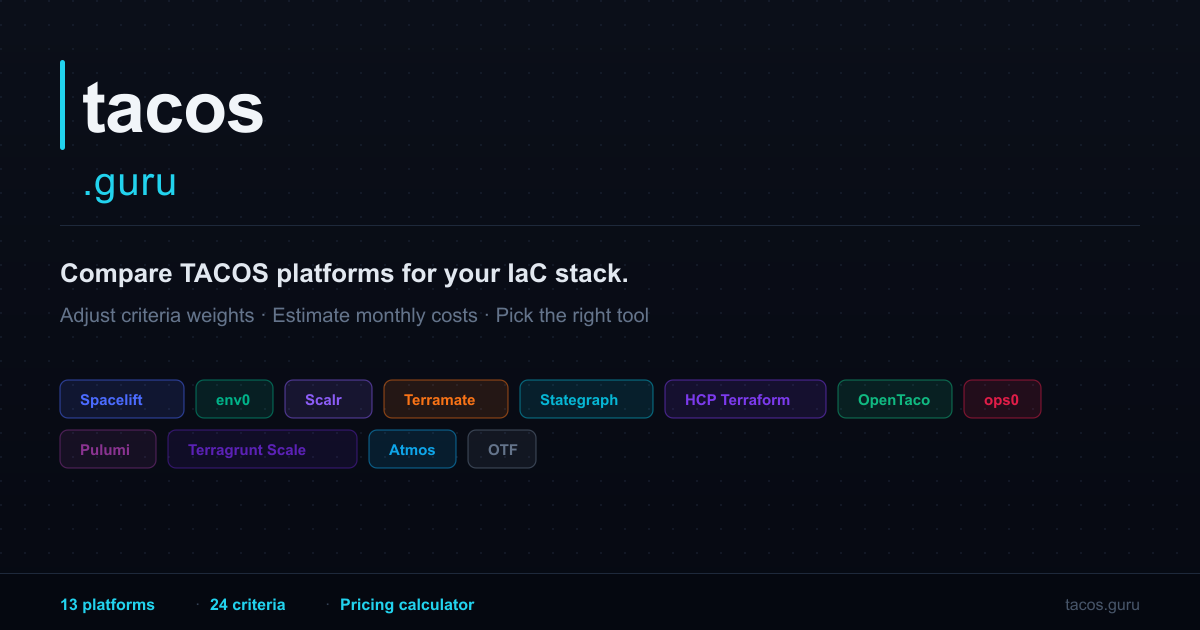
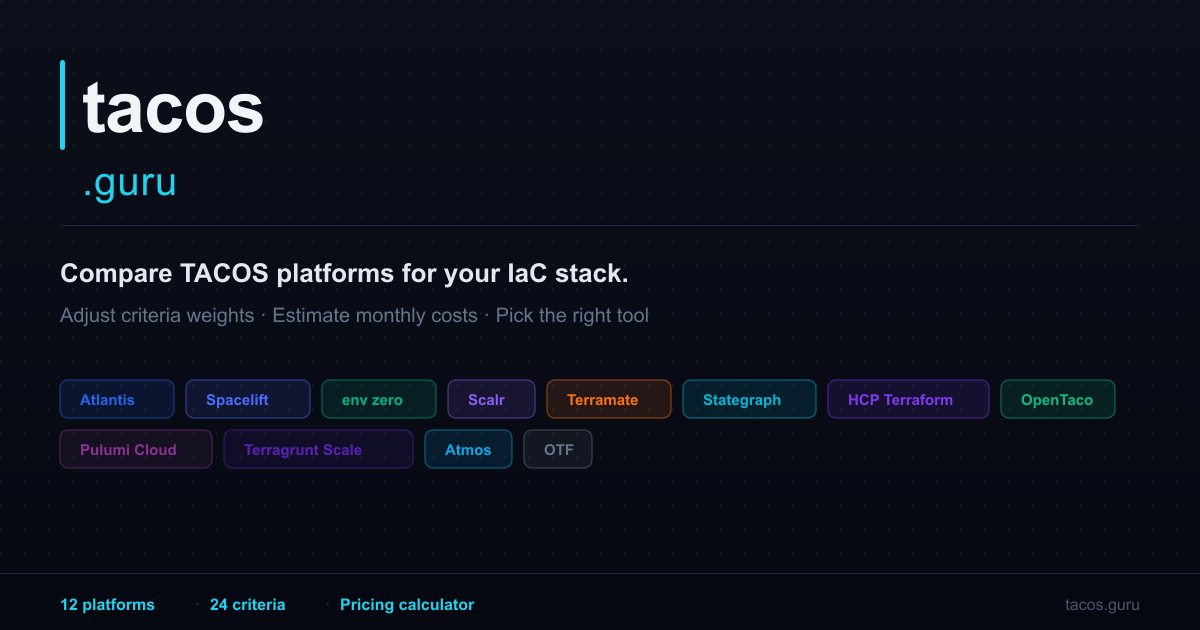
Remove ops0: not a TACOS; list it under 'Also considered'
It is a cloud-security/governance SaaS with a thin Terraform run layer and no
self-hosted runners. The OG image and meta keywords are refreshed (Atlantis
added, ops0 removed).

Claude-Session: https://claude.ai/code/session_01KZSkE1HDDguSimihxKLHY3

Changed region(s): [[0.0617, 0.6032, 0.925, 0.754]]

diff --git a/index.html b/index.html
@@ -6,7 +6,7 @@
 
     <title>tacos.guru — IaC Platform Evaluator</title>
     <meta name="description" content="Compare TACOS platforms across 24 weighted criteria and hard gates. Adjust weights for your use case, estimate monthly costs, and find the right Terraform automation tool." />
-    <meta name="keywords" content="TACOS, Terraform, OpenTofu, Spacelift, env0, Scalr, Stategraph, Terrateam, Terramate, HCP Terraform, OpenTaco, Digger, ops0, Pulumi, Terragrunt, Atmos, OTF, IaC, platform comparison, pricing" />
+    <meta name="keywords" content="TACOS, Terraform, OpenTofu, Atlantis, Spacelift, env0, Scalr, Stategraph, Terrateam, Terramate, HCP Terraform, OpenTaco, Digger, Pulumi, Terragrunt, Atmos, OTF, IaC, platform comparison, pricing" />
     <link rel="canonical" href="https://tacos.guru" />
 
     <!-- Favicon -->

diff --git a/README.md b/README.md
@@ -1,6 +1,6 @@
 # tacos.guru
 
-An interactive evaluation tool for comparing TACOS (Terraform Automation & Collaboration Software) platforms. Compare Atlantis, Spacelift, env0, Scalr, Terramate, Stategraph (formerly Terrateam), HCP Terraform, OpenTaco (formerly Digger), ops0, Pulumi Cloud, Terragrunt Scale, Atmos, and OTF across 24 weighted criteria — plus 4 hard gates that can disqualify a platform outright and 1 advisory gate — and estimate monthly costs based on your team size, resources, run volume, and stack count.
+An interactive evaluation tool for comparing TACOS (Terraform Automation & Collaboration Software) platforms. Compare Atlantis, Spacelift, env0, Scalr, Terramate, Stategraph (formerly Terrateam), HCP Terraform, OpenTaco (formerly Digger), Pulumi Cloud, Terragrunt Scale, Atmos, and OTF across 24 weighted criteria — plus 4 hard gates that can disqualify a platform outright and 1 advisory gate — and estimate monthly costs based on your team size, resources, run volume, and stack count.
 
 **Live site:** [tacos.guru](https://tacos.guru)
 
@@ -40,7 +40,7 @@ It contains:
 - **`criteria`** — 24 evaluation criteria with default weights (1–5) and categories (Critical / High / Medium / Low / Nice-to-have). Two criteria carry `variants` (Collaboration integration: Slack / MS Teams; VCS integration: GitHub / GitLab / Bitbucket / Azure DevOps) with a `defaultVariant`.
 - **`gates`** — the 5 gates (G1–G4 hard, G5 advisory) shown on every platform, each with a pass/fail result, evidence text, and a source link.
 - **`excluded`** — platforms considered but excluded before scoring (e.g. Terrakube — requires Kubernetes), shown as a subtle note below the platform list.
-- **`platforms`** — 13 platforms, each with scores (0–3) per criterion, per-variant scores for the two variant criteria, gate results, a `disqualified` flag, rationale text, and metadata.
+- **`platforms`** — 12 platforms, each with scores (0–3) per criterion, per-variant scores for the two variant criteria, gate results, a `disqualified` flag, rationale text, and metadata.
 - **`pricing`** — tier definitions for each platform including base prices, per-unit costs (including per-stack), feature gates, quote-only/auto-select flags, a source link, and a `pricingScore` mapping (cost bands → 0–3) used to derive the "Pricing suitability" criterion live from the calculator.
 
 Scores and pricing were researched from public vendor documentation in September 2026.
